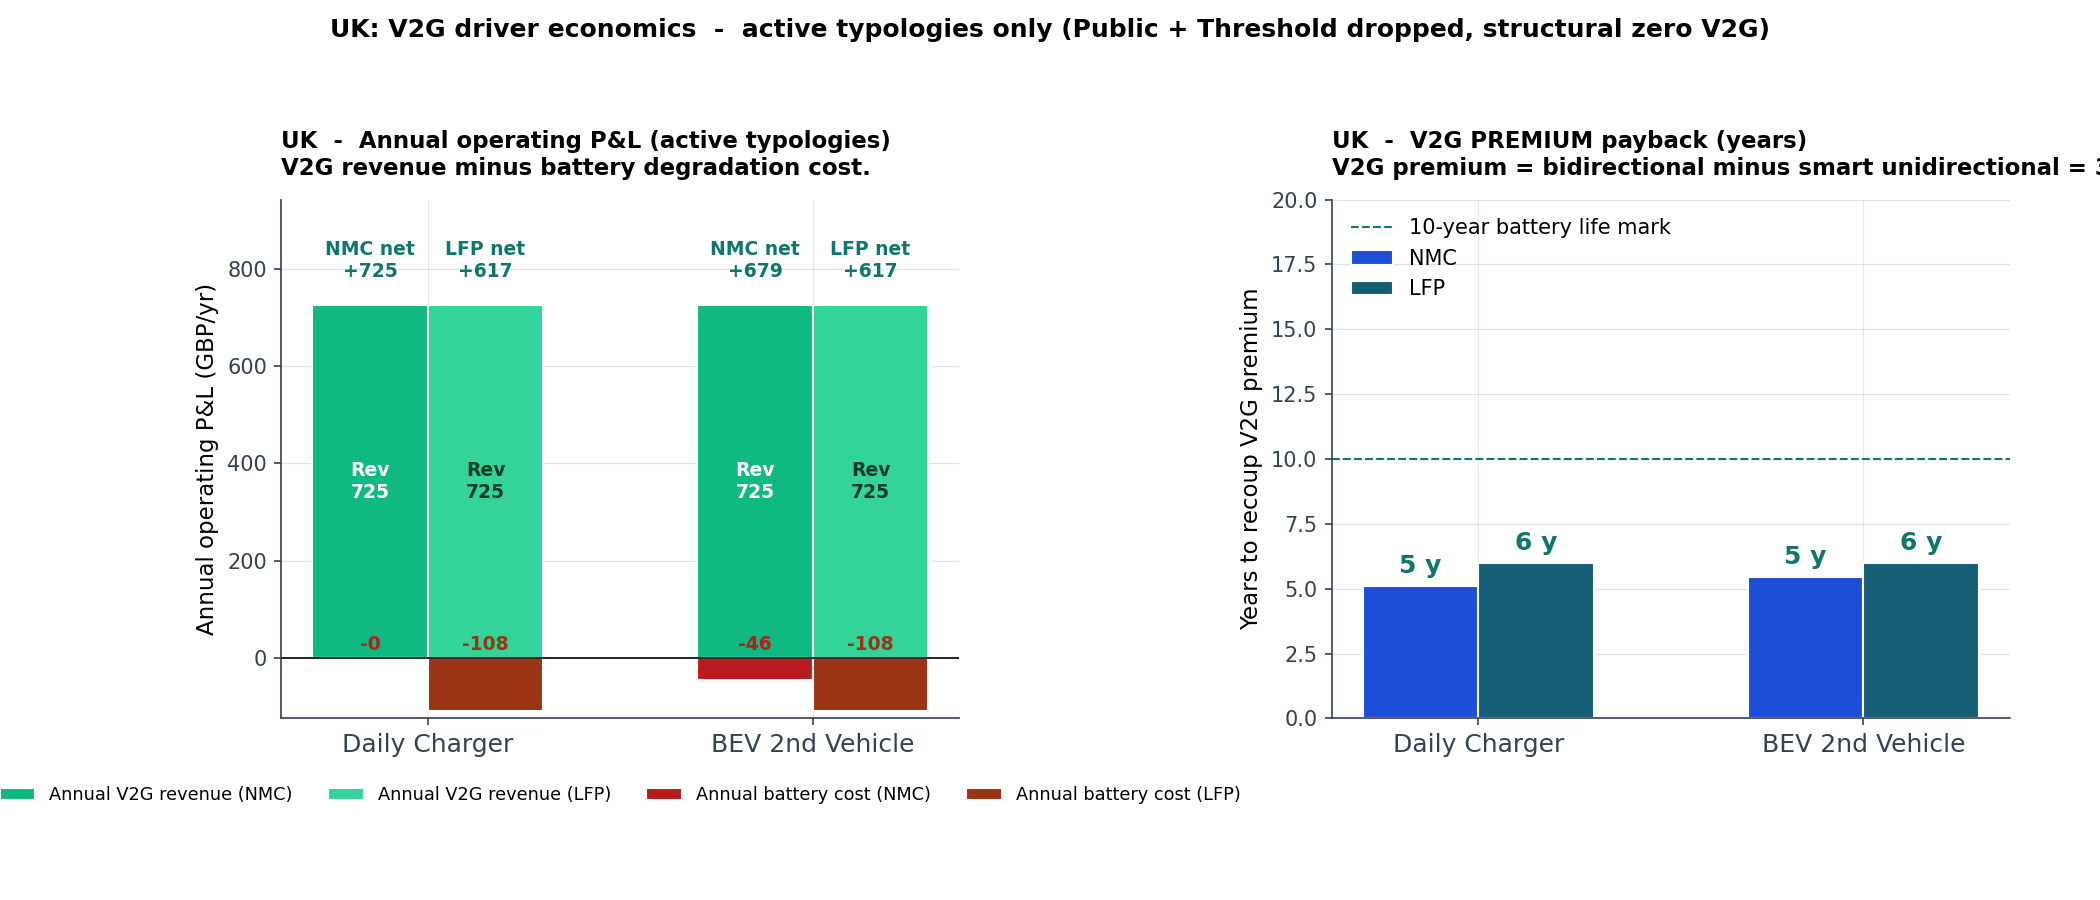
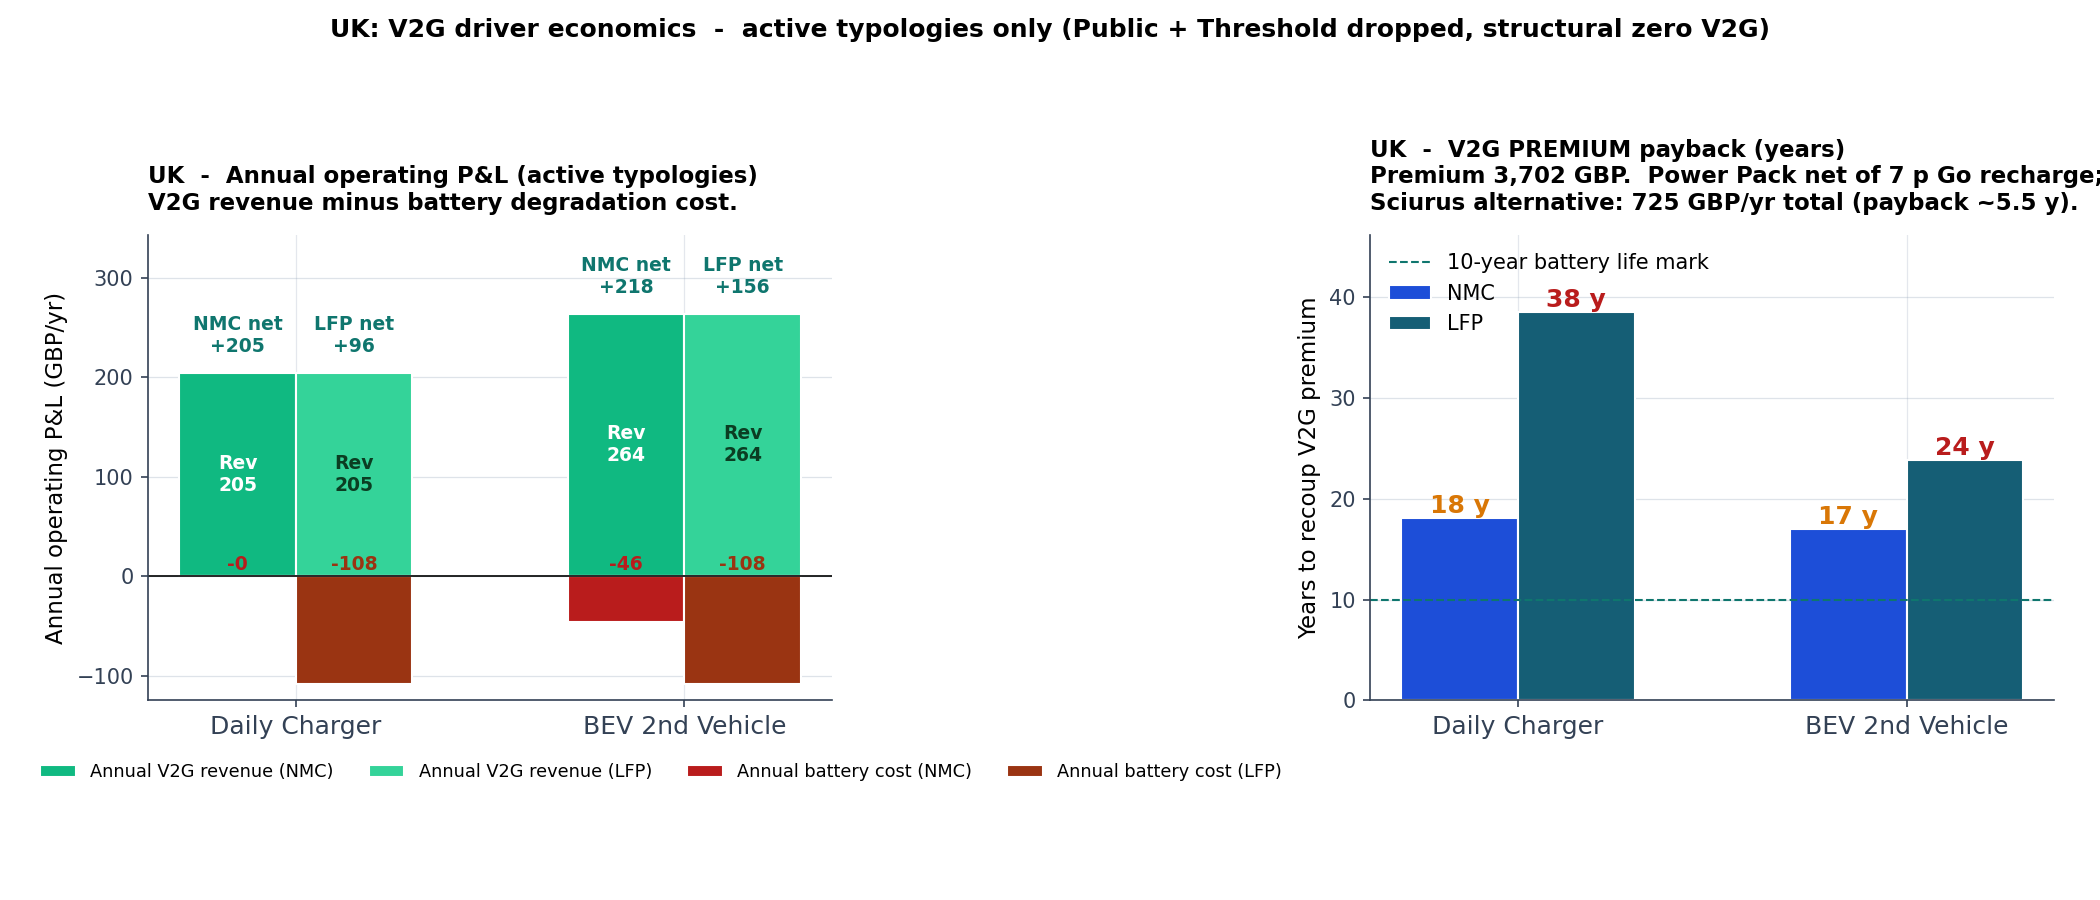
UK retail economics moved to symmetric NET basis  - Power Pack revenue now nets the 7p Go recharge at RTE 0.9025   (matches the Israeli NET framing rule): DC £205/yr, payback ~18y,   Sciurus aggregation is the only viable UK retail route - w11c: UK panel was plotting the Sciurus model under a "Power

diff --git a/src/plot_w13c_model_diagrams.py b/src/plot_w13c_model_diagrams.py
@@ -1,12 +1,12 @@
 """Methodology diagrams: hourly simulation flow + EVAgent state machine.
 
-Rendered with Graphviz (dot) for publication-quality layout.
-  w13c_model_flow.png     - one simulated hour, agent update order
-  w13c_state_machine.png  - EVAgent operational states and transitions
+Rendered with Graphviz (dot). Near-monochrome design: ink boxes, one teal
+accent, red reserved for the denial path.
 
-Content mirrors run_w9_fleet.run_year and agents/ev_agent.py exactly:
-update order (aggregator -> EV agents -> feeder), the V2G six-condition
-gate, 7.0 kW charge / 9.6 kW discharge, 50 % floor, 90 % max_soc cap.
+Charging targets (per agents/ev_agent.py): V0 and V1G charge toward the
+typology target_soc (Wong Table 1 mean SoC after charge, e.g. 89.2 % for
+the Daily Charger; hard ceiling 1.0 never reached in practice); only
+V2G-opted-in agents cap charging at V2G_MAX_SOC = 90 %.
 
 Run:  python -m src.plot_w13c_model_diagrams
 """
@@ -16,44 +16,38 @@ from pathlib import Path
 
 OUT_DIR = Path(__file__).resolve().parent.parent / "outputs"
 
-INK    = "#1e293b"
-TEAL   = "#0f766e"
-BLUE   = "#1d4ed8"
-AMBER  = "#d97706"
-RED    = "#b91c1c"
-GREY   = "#475569"
-TEAL_F = "#eef6f5"
-BLUE_F = "#eef2fd"
-AMBERF = "#fdf3e7"
+INK   = "#1e293b"
+GREY  = "#64748b"
+TEAL  = "#0f766e"
+RED   = "#b91c1c"
+TEALF = "#f0f7f6"
 
 FLOW_DOT = f"""
 digraph flow {{
-  graph [rankdir=TB, splines=ortho, nodesep=0.5, ranksep=0.42,
-         fontname="Helvetica", bgcolor="white", dpi=150, pad=0.2];
+  graph [rankdir=TB, splines=ortho, nodesep=0.55, ranksep=0.5,
+         fontname="Helvetica", bgcolor="white", dpi=200, pad=0.3];
   node  [shape=box, style="rounded,filled", fontname="Helvetica",
-         fontsize=11, color="{GREY}", fillcolor="white",
-         fontcolor="{INK}", penwidth=1.2, margin="0.22,0.12"];
-  edge  [color="{GREY}", penwidth=1.2, arrowsize=0.8,
+         fontsize=11, color="{INK}", fillcolor="white",
+         fontcolor="{INK}", penwidth=1.0, margin="0.28,0.16"];
+  edge  [color="{GREY}", penwidth=1.1, arrowsize=0.75,
          fontname="Helvetica", fontsize=9.5, fontcolor="{GREY}"];
 
   hour  [label=<<B>Hour h&nbsp; (1 &hellip; 8,760)</B>>,
-         fillcolor="{TEAL_F}", color="{TEAL}"];
-  agg   [label=<<B>AggregatorAgent</B><BR/>discharge signal for h &larr; pricing module<BR/>(inside the tariff peak window?)>,
-         fillcolor="{BLUE_F}", color="{BLUE}"];
-  mob   [label=<<B>EVAgent mobility update</B> &nbsp;<I>(each agent, fixed order)</I><BR/>depart / drive / return per typology schedule;<BR/>trip energy drawn from state of charge>];
-  dec   [label=<<B>Charging / discharging decision</B> &nbsp;<I>(counterfactual rule)</I><BR/>V0: charge at 7.0 kW when plugged and SoC &lt; target<BR/>V1G: charge off-peak only, departure-aware target (&le; 90 %)<BR/>V2G: V1G charging + six-condition discharge gate (Figure 3.2)>];
-  grid  [label=<<B>GridAgent feeder check</B><BR/>can_charge / can_discharge against transformer kVA<BR/>(household baseline load included)>,
-         fillcolor="{AMBERF}", color="{AMBER}"];
-  commit[label=<<B>Commit action</B><BR/>energy, revenue / cost recorded; feeder net load updated>];
-  aging [label=<<B>Battery health update</B><BR/>calendar + cycle aging applied to state of health>];
+         fillcolor="{TEALF}", color="{TEAL}"];
+  agg   [label=<<B>AggregatorAgent</B><BR/><BR/>discharge signal for h &larr; pricing module<BR/>(inside the tariff peak window?)>];
+  mob   [label=<<B>EVAgent mobility update</B> &nbsp;<I>(each agent, fixed order)</I><BR/><BR/>depart / drive / return per typology schedule;<BR/>trip energy drawn from state of charge>];
+  dec   [label=<<B>Charging / discharging decision</B> &nbsp;<I>(counterfactual rule)</I><BR/><BR/>V0: charge at 7.0 kW when plugged and SoC &lt; typology target<BR/>V1G: charge off-peak only, departure-aware target<BR/>V2G: V1G charging + six-condition discharge gate (Figure 3.2);<BR/>opted-in agents cap charging at 90 % SoC>];
+  grid  [label=<<B>GridAgent feeder check</B><BR/><BR/>can_charge / can_discharge against transformer kVA<BR/>(household baseline load included)>];
+  commit[label=<<B>Commit action</B><BR/><BR/>energy, revenue / cost recorded; feeder net load updated>];
+  aging [label=<<B>Battery health update</B><BR/><BR/>calendar + cycle aging applied to state of health>];
   log   [label=<<B>Log write</B> and end-of-hour reconciliation>];
   next  [label=<<B>next hour&nbsp; h &larr; h + 1</B>>,
-         fillcolor="{TEAL_F}", color="{TEAL}"];
+         fillcolor="{TEALF}", color="{TEAL}"];
 
   hour -> agg -> mob -> dec;
-  dec  -> grid  [label=" proposed action (kW)"];
-  grid -> commit[label=" allowed", fontcolor="{TEAL}", color="{TEAL}"];
-  grid -> aging [label=" denied: action skipped ", fontcolor="{RED}",
+  dec  -> grid  [label="  proposed action (kW)"];
+  grid -> commit[label="  allowed"];
+  grid -> aging [label="  denied: action skipped  ", fontcolor="{RED}",
                  color="{RED}", style=dashed];
   commit -> aging -> log -> next;
   next -> hour [style=dashed, color="{TEAL}", constraint=false];
@@ -62,38 +56,33 @@ digraph flow {{
 
 SM_DOT = f"""
 digraph sm {{
-  graph [rankdir=TB, splines=true, nodesep=0.9, ranksep=1.0,
-         fontname="Helvetica", bgcolor="white", dpi=150, pad=0.25];
+  graph [rankdir=TB, splines=true, nodesep=1.3, ranksep=1.7,
+         fontname="Helvetica", bgcolor="white", dpi=200, pad=0.35];
   node  [shape=box, style="rounded,filled", fontname="Helvetica",
-         fontsize=11, fontcolor="{INK}", penwidth=1.4,
-         margin="0.25,0.14"];
+         fontsize=11, color="{INK}", fillcolor="white",
+         fontcolor="{INK}", penwidth=1.1, margin="0.3,0.18"];
   edge  [fontname="Helvetica", fontsize=9, color="{GREY}",
-         fontcolor="{INK}", penwidth=1.1, arrowsize=0.8,
-         labeldistance=2.0];
+         fontcolor="{INK}", penwidth=1.0, arrowsize=0.75];
 
-  driving [label=<<B>DRIVING</B><BR/>away, SoC falling>,
-           color="{RED}", fillcolor="#fdf0ef"];
-  parked  [label=<<B>PARKED, NOT PLUGGED</B><BR/>home or away>,
-           color="{GREY}", fillcolor="#f4f5f7"];
-  plugged [label=<<B>PLUGGED, IDLE</B><BR/>home charger connected>,
-           color="{TEAL}", fillcolor="{TEAL_F}"];
-  charging[label=<<B>CHARGING</B><BR/>7.0 kW, up to target &le; 90 %>,
-           color="{BLUE}", fillcolor="{BLUE_F}"];
-  discharging [label=<<B>DISCHARGING (V2G)</B><BR/>9.6 kW, down to the 50 % floor>,
-           color="{AMBER}", fillcolor="{AMBERF}"];
+  driving [label=<<B>DRIVING</B><BR/><BR/>away, SoC falling>];
+  parked  [label=<<B>PARKED, NOT PLUGGED</B><BR/><BR/>home or away>];
+  plugged [label=<<B>PLUGGED, IDLE</B><BR/><BR/>home charger connected>,
+           color="{TEAL}", fillcolor="{TEALF}", penwidth=1.4];
+  charging[label=<<B>CHARGING</B><BR/><BR/>7.0 kW, up to the typology target<BR/>(V2G opt-in capped at 90 %)>];
+  discharging [label=<<B>DISCHARGING (V2G)</B><BR/><BR/>9.6 kW, down to the 50 % floor>];
 
   {{ rank=same; driving; parked; }}
   {{ rank=same; charging; discharging; }}
 
-  driving -> parked   [label="return home,\\nno plug-in (13 %)"];
-  parked  -> driving  [label="departure\\nhour"];
-  driving -> plugged  [label="return home, plug in\\n(87 % of evenings)"];
-  parked  -> plugged  [label="plug in later"];
-  plugged -> driving  [label="departure hour\\n(unplug)"];
-  plugged -> charging [label="charging rule fires\\nV0: SoC &lt; target\\nV1G/V2G: off-peak"];
-  charging -> plugged [label="target reached\\n(&le; 90 % cap)"];
-  plugged -> discharging [label="six-condition gate TRUE\\nsignal &middot; opt-in &middot; capable &middot;\\nSoC &gt; 50 % &middot; price &ge; OSP &middot; retailer"];
-  discharging -> plugged [label="signal ends, SoC &le; 50 %,\\nor feeder denial"];
+  driving -> parked   [label="return home, no plug-in (13 %)  "];
+  parked  -> driving  [label="  departure hour"];
+  driving -> plugged  [label="return home, plug in\\n(87 % of evenings)  "];
+  parked  -> plugged  [label="  plug in later"];
+  plugged -> driving  [label="departure hour (unplug)  "];
+  plugged -> charging [label="charging rule fires\\n(V0: SoC below target;\\nV1G/V2G: off-peak)  "];
+  charging -> plugged [label="  target reached"];
+  plugged -> discharging [label="  six-condition gate TRUE\\n  (signal, opt-in, capable,\\n  SoC over 50 %, price at or\\n  above OSP, retailer match)"];
+  discharging -> plugged [label="signal ends, SoC at 50 %,\\nor feeder denial  "];
 }}
 """
 

diff --git a/src/plot_w11c_pnl_active.py b/src/plot_w11c_pnl_active.py
@@ -62,10 +62,10 @@ def annual_revenue(country: str, typology: str,
 
     Israel off-peak = 0.528 NIS/kWh, RTE = 0.9025.
       net = kWh * (peak - off/RTE) = kWh * (1.6895 - 0.585) = kWh * 1.105
-    UK Power Pack: purely export income, no explicit recharge subtraction
-      because Powerloop is designed as an export tariff; residential still
-      pays retail import elsewhere.
-    UK Sciurus Model B: 725 GBP flat is already net per Cenex 2021.
+    UK Power Pack (Model A): SAME net basis as Israel - export income
+      minus the off-peak repurchase at the Intelligent Octopus Go rate:
+      net = kWh * (0.12 - 0.070/RTE) = kWh * 0.0424 GBP.
+    UK Sciurus Model B: 725 GBP flat total earnings per Cenex 2021.
     """
     ISRAEL_OFFPEAK = 0.528
     RTE = 0.9025
@@ -75,7 +75,8 @@ def annual_revenue(country: str, typology: str,
         recharge = kwh / RTE * ISRAEL_OFFPEAK
         return gross - recharge
     if uk_model == "A_powerpack":
-        return kwh * UK_POWER_PACK_GBP
+        UK_GO_OFFPEAK = 0.070
+        return kwh * (UK_POWER_PACK_GBP - UK_GO_OFFPEAK / RTE)
     return UK_SCIURUS_TOTAL_GBP if kwh > 0 else 0.0
 
 
@@ -92,7 +93,8 @@ def annual_battery_cost(typology: str, chem: str, currency: str) -> float:
     return annual if currency == "NIS" else annual / GBP_TO_NIS
 
 
-def draw(country: str, currency: str, premium: float) -> Path:
+def draw(country: str, currency: str, premium: float,
+         uk_model: str = "A_powerpack") -> Path:
     typs = ACTIVE
     chems = ("NMC", "LFP")
     n_typ = len(typs)
@@ -100,7 +102,7 @@ def draw(country: str, currency: str, premium: float) -> Path:
     rows = []
     for typ in typs:
         for chem in chems:
-            rev = annual_revenue(country, typ)
+            rev = annual_revenue(country, typ, uk_model=uk_model)
             bat = annual_battery_cost(typ, chem, currency)
             op = rev - bat
             pay = (premium / op) if op > 0 else float("inf")
@@ -170,7 +172,7 @@ def draw(country: str, currency: str, premium: float) -> Path:
                  "V2G revenue minus battery degradation cost.",
                  fontsize=11, fontweight="bold")
     # Legend BELOW the plot so it does not overlap the bars
-    ax.legend(loc="upper center", bbox_to_anchor=(0.5, -0.10),
+    ax.legend(loc="upper center", bbox_to_anchor=(0.75, -0.10),
               ncol=4, fontsize=8.5, framealpha=0.95)
     ax.grid(True, axis="y", alpha=0.3)
 
@@ -203,7 +205,8 @@ def draw(country: str, currency: str, premium: float) -> Path:
     sub = (f"V2G premium = bidirectional minus smart unidirectional "
            f"= {premium:,.0f} {currency}.")
     if country == "UK":
-        sub += f"  Sciurus aggregator model: {UK_SCIURUS_TOTAL_GBP:.0f} GBP/V2G EV/yr (total)."
+        sub = (f"Premium {premium:,.0f} GBP.  Power Pack net of 7 p Go recharge;\n"
+               f"Sciurus alternative: {UK_SCIURUS_TOTAL_GBP:.0f} GBP/yr total (payback ~5.5 y).")
     ax.set_title(f"{country}  -  V2G PREMIUM payback (years)\n{sub}",
                  fontsize=11, fontweight="bold")
     ax.legend(loc="upper left", fontsize=10, framealpha=0.95)
@@ -213,7 +216,7 @@ def draw(country: str, currency: str, premium: float) -> Path:
     fig.suptitle(f"{country}: V2G driver economics  -  active typologies only "
                  "(Public + Threshold dropped, structural zero V2G)",
                  fontsize=12, fontweight="bold")
-    fig.tight_layout(rect=(0, 0.05, 1, 0.94))
+    fig.tight_layout(rect=(0.01, 0.07, 0.99, 0.93))
     out = OUTDIR / f"w11c_pnl_active_{country.lower()}.png"
     fig.savefig(out, dpi=150, facecolor="white")
     plt.close(fig)

diff --git a/src/plot_w12t_sensitivity_split.py b/src/plot_w12t_sensitivity_split.py
@@ -20,8 +20,10 @@ OUT_DIR = Path(__file__).resolve().parent.parent / "outputs"
 
 
 def panel_capex(ax):
-    labels = ["Israel\n2024", "Israel\n2028", "UK Sciurus\n2024", "UK Sciurus\n2028"]
-    paybacks = [4.4, 1.8, 5.1, 2.4]
+    # Premiums: IL 19,350 NIS (2026) / 8,025 (2028); UK 3,702 GBP / 1,851.
+    # Operating P&L: IL DC NMC 5,323 NIS/yr; UK Sciurus 725-46 = 679 GBP/yr.
+    labels = ["Israel\n2026", "Israel\n2028", "UK Sciurus\n2026", "UK Sciurus\n2028"]
+    paybacks = [3.6, 1.5, 5.5, 2.7]
     colors = ["#0f766e", "#0f766e", "#1d4ed8", "#1d4ed8"]
     bars = ax.bar(labels, paybacks, color=colors, edgecolor="white")
     for b, v in zip(bars, paybacks):
@@ -30,7 +32,7 @@ def panel_capex(ax):
     ax.axhline(10, color="#b91c1c", linestyle="--", linewidth=1,
                label="10-yr battery life")
     ax.set_ylabel("V2G premium payback (years)", fontsize=10)
-    ax.set_title("(1) Sigenergy 2024 vs 2028",
+    ax.set_title("(1) Bidirectional charger CAPEX, 2026 vs 2028",
                  fontsize=11, fontweight="bold")
     ax.set_ylim(0, 12)
     ax.legend(fontsize=8, loc="upper right")
@@ -38,8 +40,11 @@ def panel_capex(ax):
 
 
 def panel_uk_rate(ax):
-    rates = [8, 12, 16, 20, 25]
-    pb = [17.7, 11.8, 8.8, 7.1, 5.7]
+    # NET basis (matches Fig 4.2/4.4): payback = premium / (kwh * (rate
+    # - 0.070/0.9025)), kwh = 4,820 (DC opt-in), premium = 3,702 GBP.
+    kwh, prem, go_rt = 4820, 3702, 0.070 / 0.9025
+    rates = [10, 12, 16, 20, 25]
+    pb = [prem / (kwh * (r / 100 - go_rt)) for r in rates]
     ax.plot(rates, pb, "-o", color="#1d4ed8", linewidth=2, markersize=8)
     for r, p in zip(rates, pb):
         ax.text(r, p + 0.5, f"{p:.1f}y", ha="center", fontsize=9, fontweight="bold")
@@ -49,7 +54,7 @@ def panel_uk_rate(ax):
                alpha=0.7, label="current Power Pack 12 p")
     ax.set_xlabel("Power Pack export rate (p/kWh)", fontsize=10)
     ax.set_ylabel("Payback (years)", fontsize=10)
-    ax.set_title("(2) UK Power Pack rate sweep",
+    ax.set_title("(2) UK Power Pack rate sweep (net of Go recharge)",
                  fontsize=11, fontweight="bold")
     ax.legend(fontsize=8, loc="upper right")
     ax.grid(True, alpha=0.3)

diff --git a/src/plot_w12m_retail_vs_retail.py b/src/plot_w12m_retail_vs_retail.py
@@ -39,14 +39,16 @@ def main() -> None:
     IL_OFFPEAK = 0.528
     RTE = 0.9025
     il_rev = [ACTIVE[t] * IL_RETAIL_PEAK - ACTIVE[t] / RTE * IL_OFFPEAK for t in typs]
-    uk_rev_gbp = [ACTIVE[t] * UK_POWER_PACK for t in typs]
+    UK_GO_OFFPEAK = 0.070
+    uk_rev_gbp = [ACTIVE[t] * UK_POWER_PACK - ACTIVE[t] / RTE * UK_GO_OFFPEAK
+                  for t in typs]   # NET, same basis as Israel
     uk_rev_nis = [r * GBP_TO_NIS for r in uk_rev_gbp]
 
     b1 = ax.bar(x - w/2, il_rev, w, color="#0f766e",
                 label="Israel retail (TAOZ 1.6895 NIS/kWh)",
                 edgecolor="white")
     b2 = ax.bar(x + w/2, uk_rev_nis, w, color="#1d4ed8",
-                label="UK retail (Power Pack 12 p/kWh)",
+                label="UK retail NET (12 p export less 7 p Go recharge)",
                 edgecolor="white")
 
     for b, v_il, v_uk_gbp in zip(range(len(typs)), il_rev, uk_rev_gbp):
@@ -74,7 +76,7 @@ def main() -> None:
                  "Israel retail\n(TAOZ)",
                  "Israel retail +\nancillary\n(no market yet)"]
     vals_gbp = [
-        ACTIVE["Daily Charger"] * UK_POWER_PACK,   # UK retail
+        ACTIVE["Daily Charger"] * (UK_POWER_PACK - 0.070 / 0.9025),   # UK retail NET
         UK_SCIURUS_TOT,                            # UK retail + DC
         ACTIVE["Daily Charger"] * IL_RETAIL_PEAK / GBP_TO_NIS,  # IL retail
         0.0,                                       # IL retail + ancillary unknown

diff --git a/src/aggregator_stub.py b/src/aggregator_stub.py
@@ -114,8 +114,8 @@ CHARGER_CAPEX_SMART_NIS       = 3_300.0
 # V2G premium = bidirectional cost minus what the driver would already pay
 # for a smart unidirectional charger.  This is the relevant number for
 # V1G->V2G investment decisions (the marginal cost of going bidirectional).
-V2G_PREMIUM_2024_NIS = CHARGER_CAPEX_BIDIR_2024_NIS - CHARGER_CAPEX_SMART_NIS   # ~32,400
-V2G_PREMIUM_2028_NIS = CHARGER_CAPEX_BIDIR_2028_NIS - CHARGER_CAPEX_SMART_NIS   # ~9,700
+V2G_PREMIUM_2024_NIS = CHARGER_CAPEX_BIDIR_2024_NIS - CHARGER_CAPEX_SMART_NIS   # ~19,350
+V2G_PREMIUM_2028_NIS = CHARGER_CAPEX_BIDIR_2028_NIS - CHARGER_CAPEX_SMART_NIS   # ~8,025
 
 # Default scenario for headline payback figures.  Override in plotting
 # scripts that want to show the 2028-30 scenario.

diff --git a/src/smoke_w10r_economics.py b/src/smoke_w10r_economics.py
@@ -113,8 +113,11 @@ def compute(country: str, typology: str, chemistry: str,
         currency = "GBP"
         premium = V2G_PREMIUM_GBP
         if uk_model == "A_powerpack":
-            # Retail-only arbitrage at Power Pack 12 p export rate
-            annual_revenue = kwh * UK_POWER_PACK_GBP
+            # Retail-only arbitrage NET: 12 p export less the off-peak
+            # repurchase at Intelligent Octopus Go 7 p and RTE (same
+            # basis as the Israeli NET figures).
+            UK_GO_OFFPEAK = 0.070
+            annual_revenue = kwh * (UK_POWER_PACK_GBP - UK_GO_OFFPEAK / RTE)
         else:
             # The Sciurus £725 flat fee is intended for real V2G
             # participants, not for typologies producing rounding-artifact
